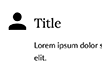
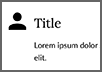
edits

Changed region(s): [[0.0, 0.0, 1.0, 1.0]]

diff --git a/web/themes/custom/atrium/ckeditor/ckeditor_templates.js b/web/themes/custom/atrium/ckeditor/ckeditor_templates.js
@@ -8,27 +8,6 @@ CKEDITOR.addTemplates('default', {
 	// The templates definitions.
 	templates: [
     {
-      title: 'Left icon',
-      image: 'left-icon.png',
-      description: 'Contains a left-align icon and some content.',
-      template: function () {
-        return `
-            <div class="usa-card usa-card--flag jcc-card jcc-card--icon">
-                <div class="usa-card__container jcc-border--borderless">
-                    <div class="usa-card__body">
-                        <h3>Title</h3>
-                        <p>text</p>
-                    </div>
-                    <div class="usa-card__media">
-                        <div class="usa-card__img jcc-image--media-icon">
-                            [IMG]
-                        </div>
-                    </div>
-                </div>
-            </div>`
-      },
-    },
-    {
       title: 'Detail (Read more)',
       image: 'read-more.png',
       description: 'Contains a trigger and expanded text. Use for exceptions and details not relevant to all readers.',
@@ -114,6 +93,27 @@ CKEDITOR.addTemplates('default', {
         </div>
         <p>Text After</p>`
       }
+    },
+    {
+      title: 'Left icon',
+      image: 'left-icon.png',
+      description: 'Contains a left-align icon and some content.',
+      template: function () {
+        return `
+            <div class="usa-card usa-card--flag jcc-card jcc-card--icon">
+                <div class="usa-card__container jcc-border--borderless">
+                    <div class="usa-card__body">
+                        <h3>Title</h3>
+                        <p>text</p>
+                    </div>
+                    <div class="usa-card__media">
+                        <div class="usa-card__img jcc-image--media-icon">
+                            <img src="/themes/custom/atrium/ckeditor/placeholder.png" alt="placeholder" />
+                        </div>
+                    </div>
+                </div>
+            </div>`
+      },
     },
     {
       title: 'Callout Block',
